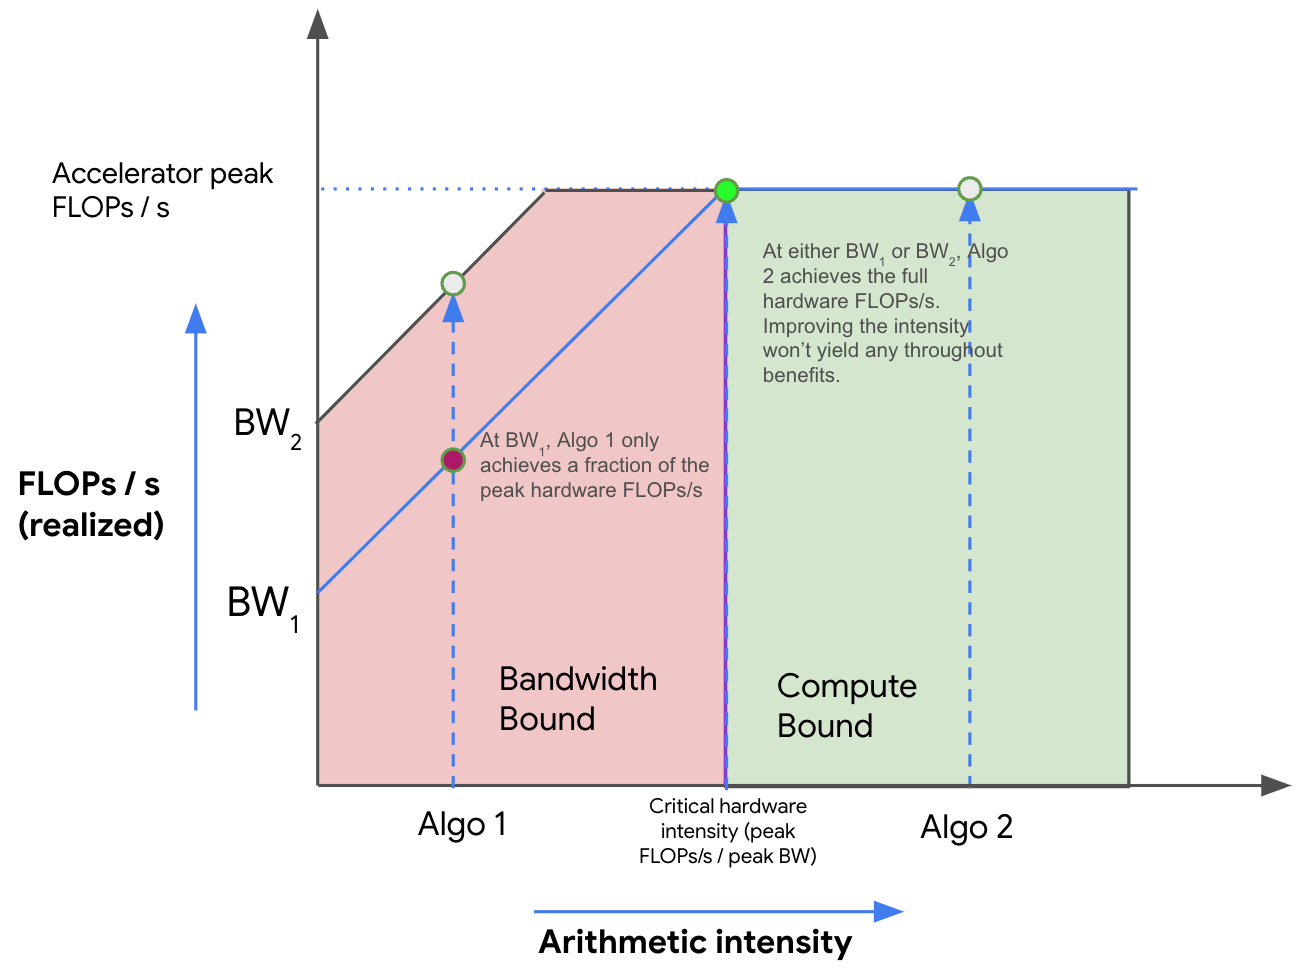
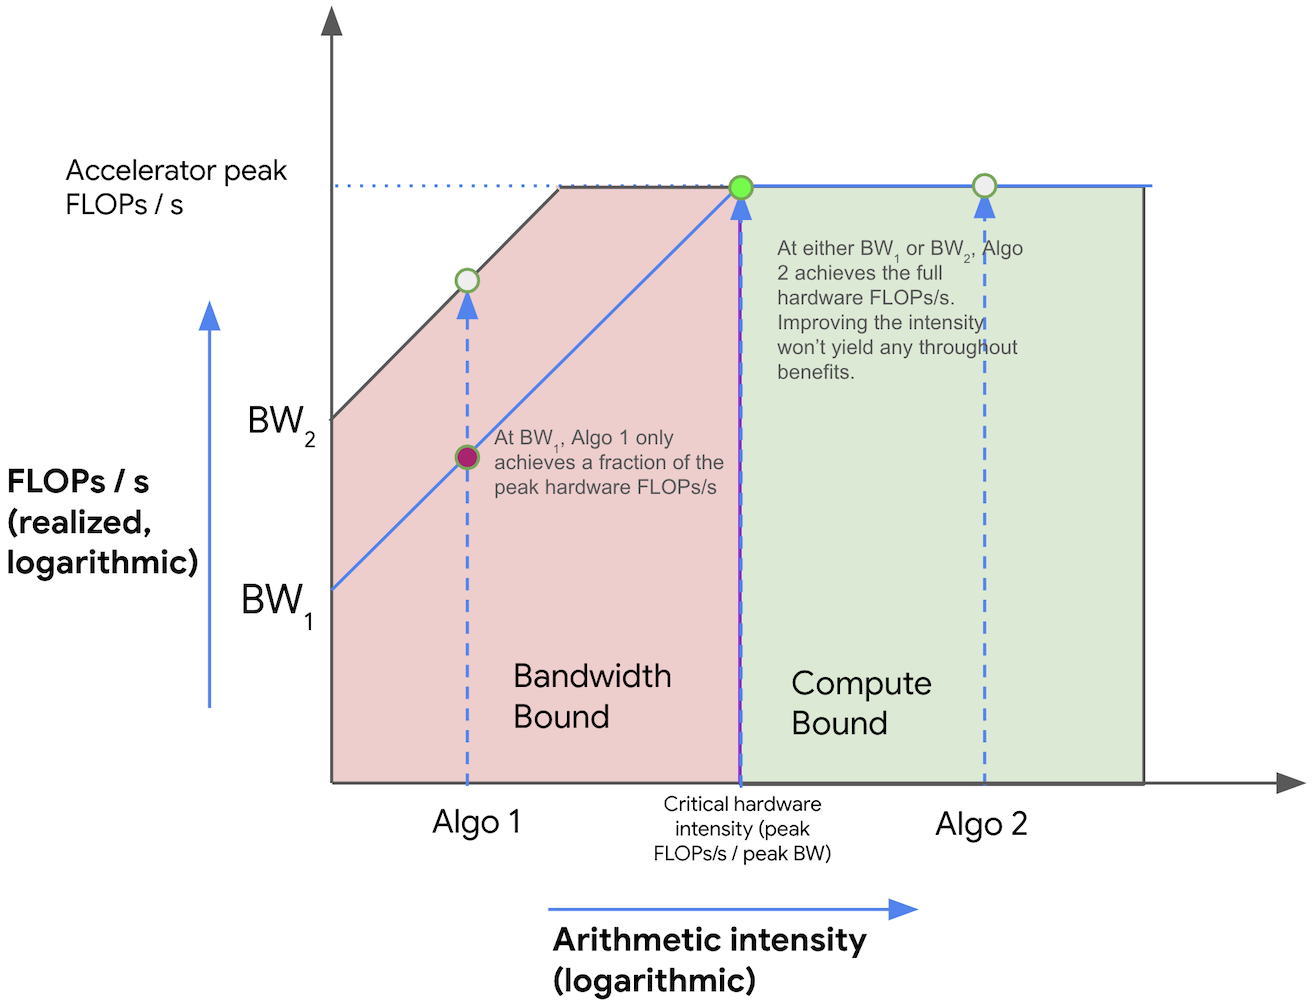
Clarify roofline plot is in log-log, and remove unused example-roofline.png.

diff --git a/roofline.md b/roofline.md
@@ -136,7 +136,7 @@ as $N\rightarrow\infty$. So the dot product has an arithmetic intensity of $\fra
 
 ### Visualizing rooflines
 
-We can visualize the tradeoff between memory and compute using a **roofline plot**, which plots the peak achievable FLOPs/s (throughput) of an algorithm on our hardware (the y-axis) against the arithmetic intensity of that algorithm (the x-axis). Here's a fake diagram:
+We can visualize the tradeoff between memory and compute using a **roofline plot**, which plots the peak achievable FLOPs/s (throughput) of an algorithm on our hardware (the y-axis) against the arithmetic intensity of that algorithm (the x-axis). Here's an example log-log plot:
 
 {% include figure.liquid path="assets/img/roofline-improved.png" class="img-fluid" caption="<b>Figure:</b> an example roofline plot showing two algorithms with different arithmetic intensities (Algo 1 and Algo 2) and their corresponding theoretical peak throughput under different bandwidths (BW1 and BW2)." %}
 
